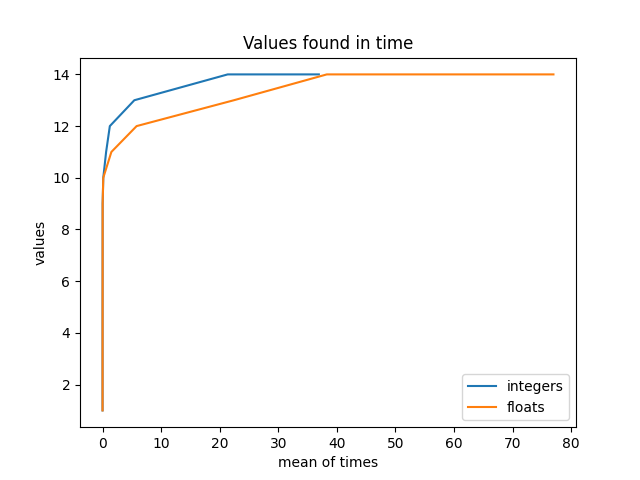
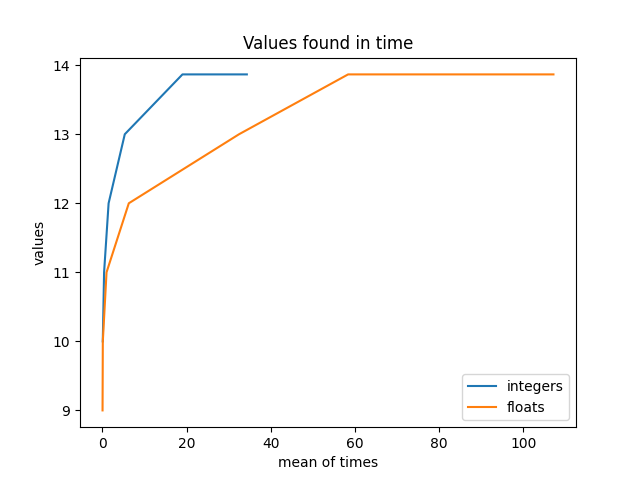
int-float test

diff --git a/files/Tests.py b/files/Tests.py
@@ -63,6 +63,8 @@ def get_stats(times_dict: dict, number_dict: dict, total_times: list, maxes_foun
     all_found_this = min(maxes_found)
     for quality, number in number_dict.items():
         if quality == all_found_this:
+            values.append(quality)
+            times.append(times_dict[quality] / number)
             values.append(sum(maxes_found) / len(maxes_found))
             times.append(sum(max_time_found) / len(max_time_found))
             break
@@ -77,7 +79,7 @@ def get_stats(times_dict: dict, number_dict: dict, total_times: list, maxes_foun
 
 
 def float_int_comparation_test():
-    tests_num = 2
+    tests_num = 30
     int_dict_times = {i: 0 for i in range(ELEMENTS_NUMBER + 1)}
     float_dict_times = {i: 0 for i in range(ELEMENTS_NUMBER + 1)}
     container_size: tuple[float, float]=(15, 15)
@@ -90,6 +92,7 @@ def float_int_comparation_test():
     max_time_float = []
     max_time_int = []
     for i in range(tests_num):
+        print(i)
         set_seed(get_seed() + i)
         float_elem = generate_float_tuples(ELEMENTS_NUMBER, container_size[1], MAX_EL_LEN_RATIO, MIN_EL_LEN_RATIO)
         int_elem = generate_int_tuples(ELEMENTS_NUMBER, container_size[1], MAX_EL_LEN_RATIO, MIN_EL_LEN_RATIO)
